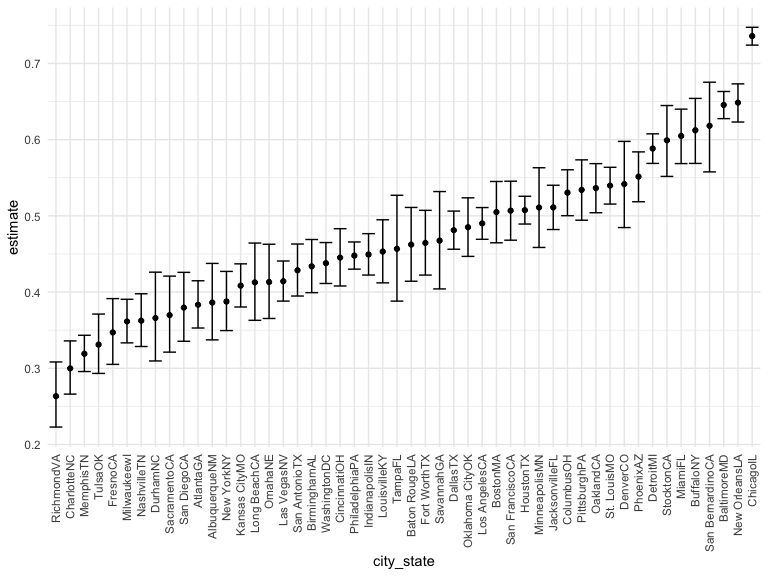
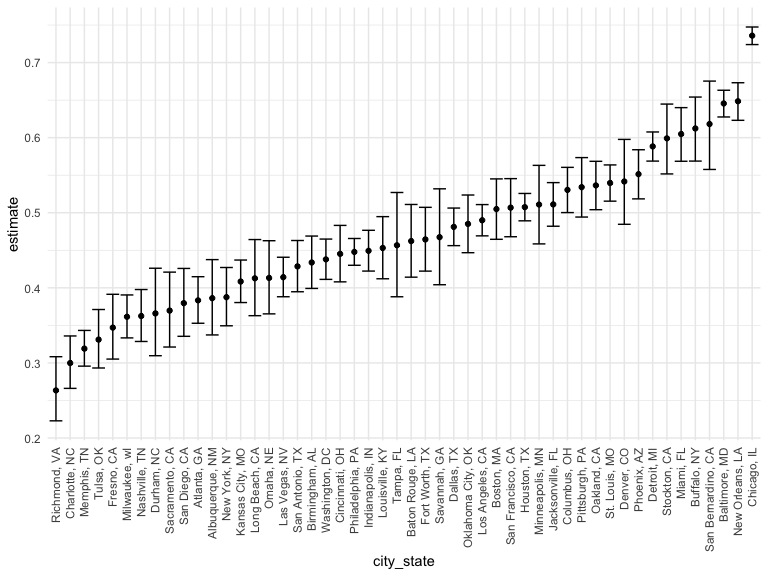
final

diff --git a/p8105_hw5_hr2479.md b/p8105_hw5_hr2479.md
@@ -5,69 +5,126 @@ Harry Reyes
 
 ## Problem 1
 
-The Washington Post has gathered data on homicides in 50 large U.S.
-cities and made the data available through a GitHub repository
-[here](https://github.com/washingtonpost/data-homicides). You can read
-their accompanying article
-[here](https://www.washingtonpost.com/graphics/2018/investigations/where-murders-go-unsolved/).
-
-``` r
-homicide = read_csv("data/homicide-data.csv")
-```
-
-    ## Rows: 52179 Columns: 12
-
-    ## ── Column specification ────────────────────────────────────────────────────────
-    ## Delimiter: ","
-    ## chr (9): uid, victim_last, victim_first, victim_race, victim_age, victim_sex...
-    ## dbl (3): reported_date, lat, lon
-
-    ## 
-    ## ℹ Use `spec()` to retrieve the full column specification for this data.
-    ## ℹ Specify the column types or set `show_col_types = FALSE` to quiet this message.
-
-Describe the raw data.
-
-Create a `city_state` variable (e.g. “Baltimore, MD”) and then summarize
-within cities to obtain the total number of homicides and the number of
-unsolved homicides (those for which the disposition is “Closed without
-arrest” or “Open/No arrest”).
+The Washington Post made data on homicides in 50 U.S. cities publicly
+available via a [Github
+repository](https://github.com/washingtonpost/data-homicides). After
+downloading the data, here we import and review the dataset.
 
 ``` r
 homicide_df = 
-  read_csv("./data/homicide-data.csv", na = c("", "Unknown")) %>%
+  read_csv("./data/homicide-data.csv", na = c("", "Unknown"), show_col_types = FALSE) %>%
   mutate(
-    city_state = str_c(city,state),
+    city_state = str_c(city, state, sep = ", "),
+    victim_age = as.numeric(victim_age),
     resolution = case_when(
       disposition == "Closed without arrest" ~ "unsolved",
       disposition == "Open/No arrest" ~ "unsolved",
       disposition == "Closed by arrest" ~ "solved"
     )) %>%
   relocate(city_state) %>%
-  filter(city_state != "TulsaAL")
+  filter(city_state != "Tulsa, AL") 
+
+head(homicide_df)%>%
+  knitr::kable()
 ```
 
-    ## Rows: 52179 Columns: 12
+| city\_state     | uid        | reported\_date | victim\_last | victim\_first | victim\_race | victim\_age | victim\_sex | city        | state |      lat |       lon | disposition           | resolution |
+|:----------------|:-----------|---------------:|:-------------|:--------------|:-------------|------------:|:------------|:------------|:------|---------:|----------:|:----------------------|:-----------|
+| Albuquerque, NM | Alb-000001 |       20100504 | GARCIA       | JUAN          | Hispanic     |          78 | Male        | Albuquerque | NM    | 35.09579 | -106.5386 | Closed without arrest | unsolved   |
+| Albuquerque, NM | Alb-000002 |       20100216 | MONTOYA      | CAMERON       | Hispanic     |          17 | Male        | Albuquerque | NM    | 35.05681 | -106.7153 | Closed by arrest      | solved     |
+| Albuquerque, NM | Alb-000003 |       20100601 | SATTERFIELD  | VIVIANA       | White        |          15 | Female      | Albuquerque | NM    | 35.08609 | -106.6956 | Closed without arrest | unsolved   |
+| Albuquerque, NM | Alb-000004 |       20100101 | MENDIOLA     | CARLOS        | Hispanic     |          32 | Male        | Albuquerque | NM    | 35.07849 | -106.5561 | Closed by arrest      | solved     |
+| Albuquerque, NM | Alb-000005 |       20100102 | MULA         | VIVIAN        | White        |          72 | Female      | Albuquerque | NM    | 35.13036 | -106.5810 | Closed without arrest | unsolved   |
+| Albuquerque, NM | Alb-000006 |       20100126 | BOOK         | GERALDINE     | White        |          91 | Female      | Albuquerque | NM    | 35.15111 | -106.5378 | Open/No arrest        | unsolved   |
 
-    ## ── Column specification ────────────────────────────────────────────────────────
-    ## Delimiter: ","
-    ## chr (8): uid, victim_last, victim_first, victim_race, victim_sex, city, stat...
-    ## dbl (4): reported_date, victim_age, lat, lon
+The homicide dataset contains 52178 observations and 14 variables,
+including the victim’s name, age, race (i.e., Asian, Black, Hispanic,
+Other, White), and sex (i.e., Female, Male). There is also information
+on the date the homicide was reported, its disposition (i.e., Closed by
+arrest, Closed without arrest, Open/No arrest), the city and state of
+the homicide, and its latitude and longitude. Homicide victims in this
+dataset had a mean age of 32 years. As part of tidying this dataset, I
+created a city\_state variable that combines city and state, and a
+resolution variable based on the disposition of the case. I also dropped
+an observation attributed to Tulsa, AL that appears to be an error.
 
-    ## 
-    ## ℹ Use `spec()` to retrieve the full column specification for this data.
-    ## ℹ Specify the column types or set `show_col_types = FALSE` to quiet this message.
+Here I computed the total number of homicides and the number of unsolved
+homicides (those for which the disposition is “Closed without arrest” or
+“Open/No arrest”) at the city level.
 
-For the city of Baltimore, MD, use the `prop.test` function to estimate
-the proportion of homicides that are unsolved; save the output of
-`prop.test` as an R object, apply the `broom::tidy` to this object and
-pull the estimated proportion and confidence intervals from the
-resulting tidy dataframe.
+``` r
+citystate_homicide_df = 
+  homicide_df %>% 
+  select(city_state, disposition, resolution) %>% 
+  group_by(city_state) %>% 
+  summarize(homicides_total = n(),
+            homicides_unsolved = sum(resolution == "unsolved"))
+
+citystate_homicide_df%>%
+  knitr::kable()
+```
+
+| city\_state        | homicides\_total | homicides\_unsolved |
+|:-------------------|-----------------:|--------------------:|
+| Albuquerque, NM    |              378 |                 146 |
+| Atlanta, GA        |              973 |                 373 |
+| Baltimore, MD      |             2827 |                1825 |
+| Baton Rouge, LA    |              424 |                 196 |
+| Birmingham, AL     |              800 |                 347 |
+| Boston, MA         |              614 |                 310 |
+| Buffalo, NY        |              521 |                 319 |
+| Charlotte, NC      |              687 |                 206 |
+| Chicago, IL        |             5535 |                4073 |
+| Cincinnati, OH     |              694 |                 309 |
+| Columbus, OH       |             1084 |                 575 |
+| Dallas, TX         |             1567 |                 754 |
+| Denver, CO         |              312 |                 169 |
+| Detroit, MI        |             2519 |                1482 |
+| Durham, NC         |              276 |                 101 |
+| Fort Worth, TX     |              549 |                 255 |
+| Fresno, CA         |              487 |                 169 |
+| Houston, TX        |             2942 |                1493 |
+| Indianapolis, IN   |             1322 |                 594 |
+| Jacksonville, FL   |             1168 |                 597 |
+| Kansas City, MO    |             1190 |                 486 |
+| Las Vegas, NV      |             1381 |                 572 |
+| Long Beach, CA     |              378 |                 156 |
+| Los Angeles, CA    |             2257 |                1106 |
+| Louisville, KY     |              576 |                 261 |
+| Memphis, TN        |             1514 |                 483 |
+| Miami, FL          |              744 |                 450 |
+| Milwaukee, wI      |             1115 |                 403 |
+| Minneapolis, MN    |              366 |                 187 |
+| Nashville, TN      |              767 |                 278 |
+| New Orleans, LA    |             1434 |                 930 |
+| New York, NY       |              627 |                 243 |
+| Oakland, CA        |              947 |                 508 |
+| Oklahoma City, OK  |              672 |                 326 |
+| Omaha, NE          |              409 |                 169 |
+| Philadelphia, PA   |             3037 |                1360 |
+| Phoenix, AZ        |              914 |                 504 |
+| Pittsburgh, PA     |              631 |                 337 |
+| Richmond, VA       |              429 |                 113 |
+| Sacramento, CA     |              376 |                 139 |
+| San Antonio, TX    |              833 |                 357 |
+| San Bernardino, CA |              275 |                 170 |
+| San Diego, CA      |              461 |                 175 |
+| San Francisco, CA  |              663 |                 336 |
+| Savannah, GA       |              246 |                 115 |
+| St. Louis, MO      |             1677 |                 905 |
+| Stockton, CA       |              444 |                 266 |
+| Tampa, FL          |              208 |                  95 |
+| Tulsa, OK          |              583 |                 193 |
+| Washington, DC     |             1345 |                 589 |
+
+Here, for the city of Baltimore, MD, I estimated the proportion (and
+confidence intervals) of homicides that are unsolved. It appears to be
+approximately 65% (95% CI: 63%-66%).
 
 ``` r
 baltimore_df = 
   homicide_df %>% 
-  filter(city_state == "BaltimoreMD") 
+  filter(city_state == "Baltimore, MD") 
 
 baltimore_summary =
   baltimore_df %>%
@@ -83,19 +140,17 @@ baltimore_test =
 
 baltimore_test %>% 
   broom::tidy()%>%
-  select(estimate, starts_with("conf"))
+  select(estimate, starts_with("conf"))%>%
+  knitr::kable()
 ```
 
-    ## # A tibble: 1 × 3
-    ##   estimate conf.low conf.high
-    ##      <dbl>    <dbl>     <dbl>
-    ## 1    0.646    0.628     0.663
+|  estimate |  conf.low | conf.high |
+|----------:|----------:|----------:|
+| 0.6455607 | 0.6275625 | 0.6631599 |
 
-Now run `prop.test` for each of the cities in your dataset, and extract
-both the proportion of unsolved homicides and the confidence interval
-for each. Do this within a “tidy” pipeline, making use of `purrr::map`,
-`purrr::map2`, list columns and `unnest` as necessary to create a tidy
-dataframe with estimated proportions and CIs for each city.
+After developing my approach for a single city, I then created a
+function that would similarly estimate the proportion (and confidence
+intervals) of homicides that are unsolved for each city in the dataset.
 
 ``` r
 prop_test_function = function(city_df){
@@ -125,12 +180,66 @@ result_df =
   select(city_state, tidy_results) %>%
   unnest(tidy_results) %>%
   select(city_state, estimate, starts_with("conf"))
+
+result_df%>%
+  knitr::kable()
 ```
 
-Create a plot that shows the estimates and CIs for each city – check out
-`geom_errorbar` for a way to add error bars based on the upper and lower
-limits. Organize cities according to the proportion of unsolved
-homicides.
+| city\_state        |  estimate |  conf.low | conf.high |
+|:-------------------|----------:|----------:|----------:|
+| Albuquerque, NM    | 0.3862434 | 0.3372604 | 0.4375766 |
+| Atlanta, GA        | 0.3833505 | 0.3528119 | 0.4148219 |
+| Baltimore, MD      | 0.6455607 | 0.6275625 | 0.6631599 |
+| Baton Rouge, LA    | 0.4622642 | 0.4141987 | 0.5110240 |
+| Birmingham, AL     | 0.4337500 | 0.3991889 | 0.4689557 |
+| Boston, MA         | 0.5048860 | 0.4646219 | 0.5450881 |
+| Buffalo, NY        | 0.6122841 | 0.5687990 | 0.6540879 |
+| Charlotte, NC      | 0.2998544 | 0.2660820 | 0.3358999 |
+| Chicago, IL        | 0.7358627 | 0.7239959 | 0.7473998 |
+| Cincinnati, OH     | 0.4452450 | 0.4079606 | 0.4831439 |
+| Columbus, OH       | 0.5304428 | 0.5002167 | 0.5604506 |
+| Dallas, TX         | 0.4811742 | 0.4561942 | 0.5062475 |
+| Denver, CO         | 0.5416667 | 0.4846098 | 0.5976807 |
+| Detroit, MI        | 0.5883287 | 0.5687903 | 0.6075953 |
+| Durham, NC         | 0.3659420 | 0.3095874 | 0.4260936 |
+| Fort Worth, TX     | 0.4644809 | 0.4222542 | 0.5072119 |
+| Fresno, CA         | 0.3470226 | 0.3051013 | 0.3913963 |
+| Houston, TX        | 0.5074779 | 0.4892447 | 0.5256914 |
+| Indianapolis, IN   | 0.4493192 | 0.4223156 | 0.4766207 |
+| Jacksonville, FL   | 0.5111301 | 0.4820460 | 0.5401402 |
+| Kansas City, MO    | 0.4084034 | 0.3803996 | 0.4370054 |
+| Las Vegas, NV      | 0.4141926 | 0.3881284 | 0.4407395 |
+| Long Beach, CA     | 0.4126984 | 0.3629026 | 0.4642973 |
+| Los Angeles, CA    | 0.4900310 | 0.4692208 | 0.5108754 |
+| Louisville, KY     | 0.4531250 | 0.4120609 | 0.4948235 |
+| Memphis, TN        | 0.3190225 | 0.2957047 | 0.3432691 |
+| Miami, FL          | 0.6048387 | 0.5685783 | 0.6400015 |
+| Milwaukee, wI      | 0.3614350 | 0.3333172 | 0.3905194 |
+| Minneapolis, MN    | 0.5109290 | 0.4585150 | 0.5631099 |
+| Nashville, TN      | 0.3624511 | 0.3285592 | 0.3977401 |
+| New Orleans, LA    | 0.6485356 | 0.6231048 | 0.6731615 |
+| New York, NY       | 0.3875598 | 0.3494421 | 0.4270755 |
+| Oakland, CA        | 0.5364308 | 0.5040588 | 0.5685037 |
+| Oklahoma City, OK  | 0.4851190 | 0.4467861 | 0.5236245 |
+| Omaha, NE          | 0.4132029 | 0.3653146 | 0.4627477 |
+| Philadelphia, PA   | 0.4478103 | 0.4300380 | 0.4657157 |
+| Phoenix, AZ        | 0.5514223 | 0.5184825 | 0.5839244 |
+| Pittsburgh, PA     | 0.5340729 | 0.4942706 | 0.5734545 |
+| Richmond, VA       | 0.2634033 | 0.2228571 | 0.3082658 |
+| San Antonio, TX    | 0.4285714 | 0.3947772 | 0.4630331 |
+| Sacramento, CA     | 0.3696809 | 0.3211559 | 0.4209131 |
+| Savannah, GA       | 0.4674797 | 0.4041252 | 0.5318665 |
+| San Bernardino, CA | 0.6181818 | 0.5576628 | 0.6753422 |
+| San Diego, CA      | 0.3796095 | 0.3354259 | 0.4258315 |
+| San Francisco, CA  | 0.5067873 | 0.4680516 | 0.5454433 |
+| St. Louis, MO      | 0.5396541 | 0.5154369 | 0.5636879 |
+| Stockton, CA       | 0.5990991 | 0.5517145 | 0.6447418 |
+| Tampa, FL          | 0.4567308 | 0.3881009 | 0.5269851 |
+| Tulsa, OK          | 0.3310463 | 0.2932349 | 0.3711192 |
+| Washington, DC     | 0.4379182 | 0.4112495 | 0.4649455 |
+
+I also created a plot that shows the estimates and CIs for each city,
+organizing cities according to the proportion of unsolved homicides.
 
 ``` r
 result_df %>%
